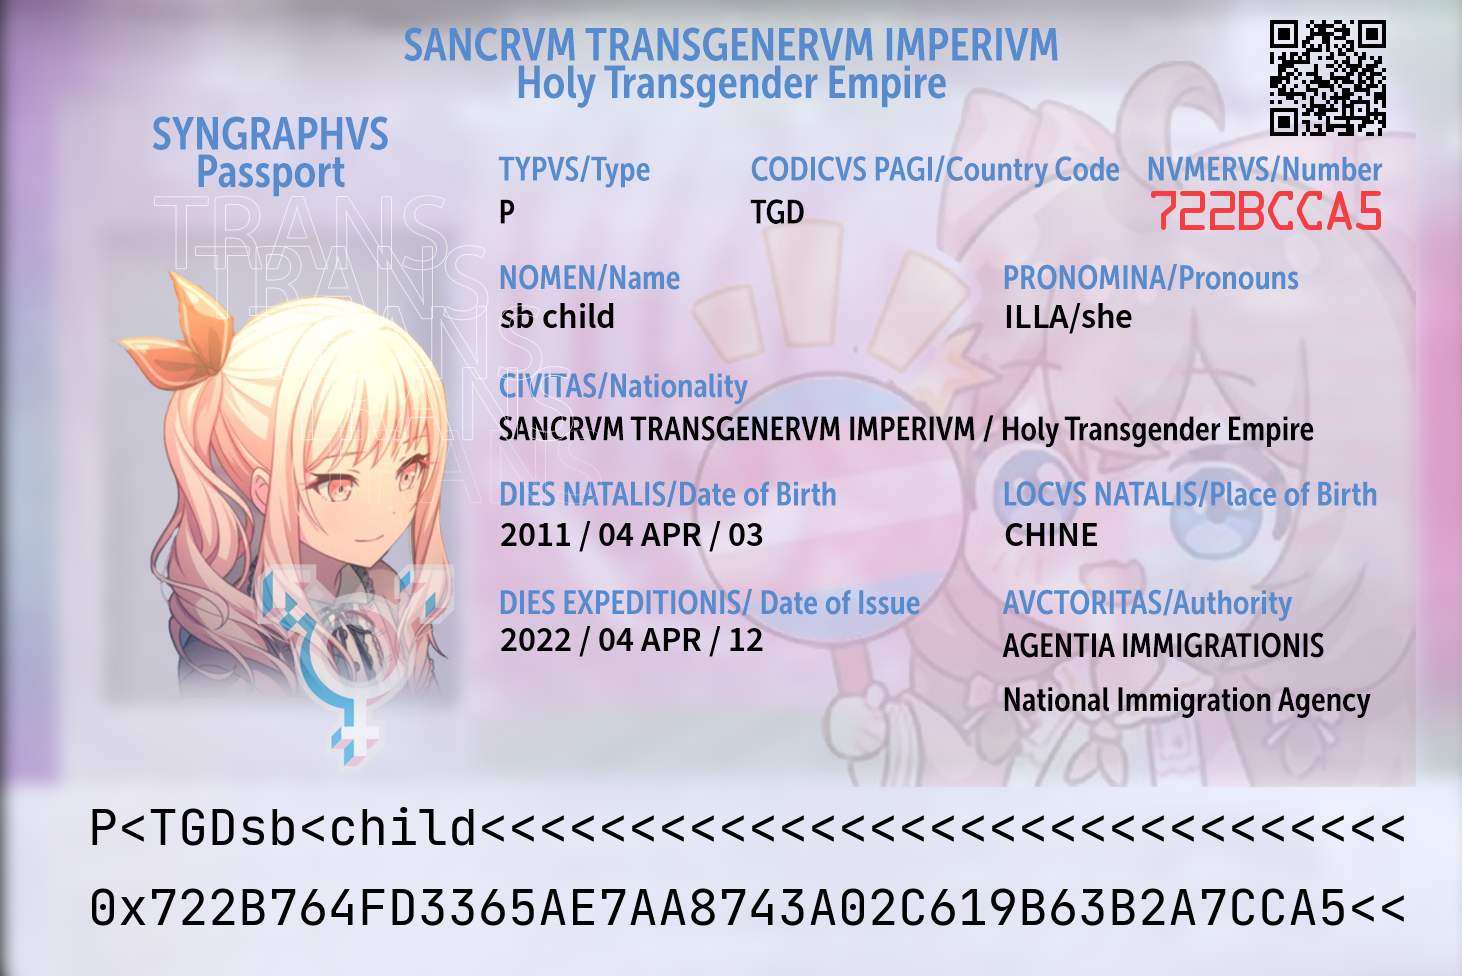
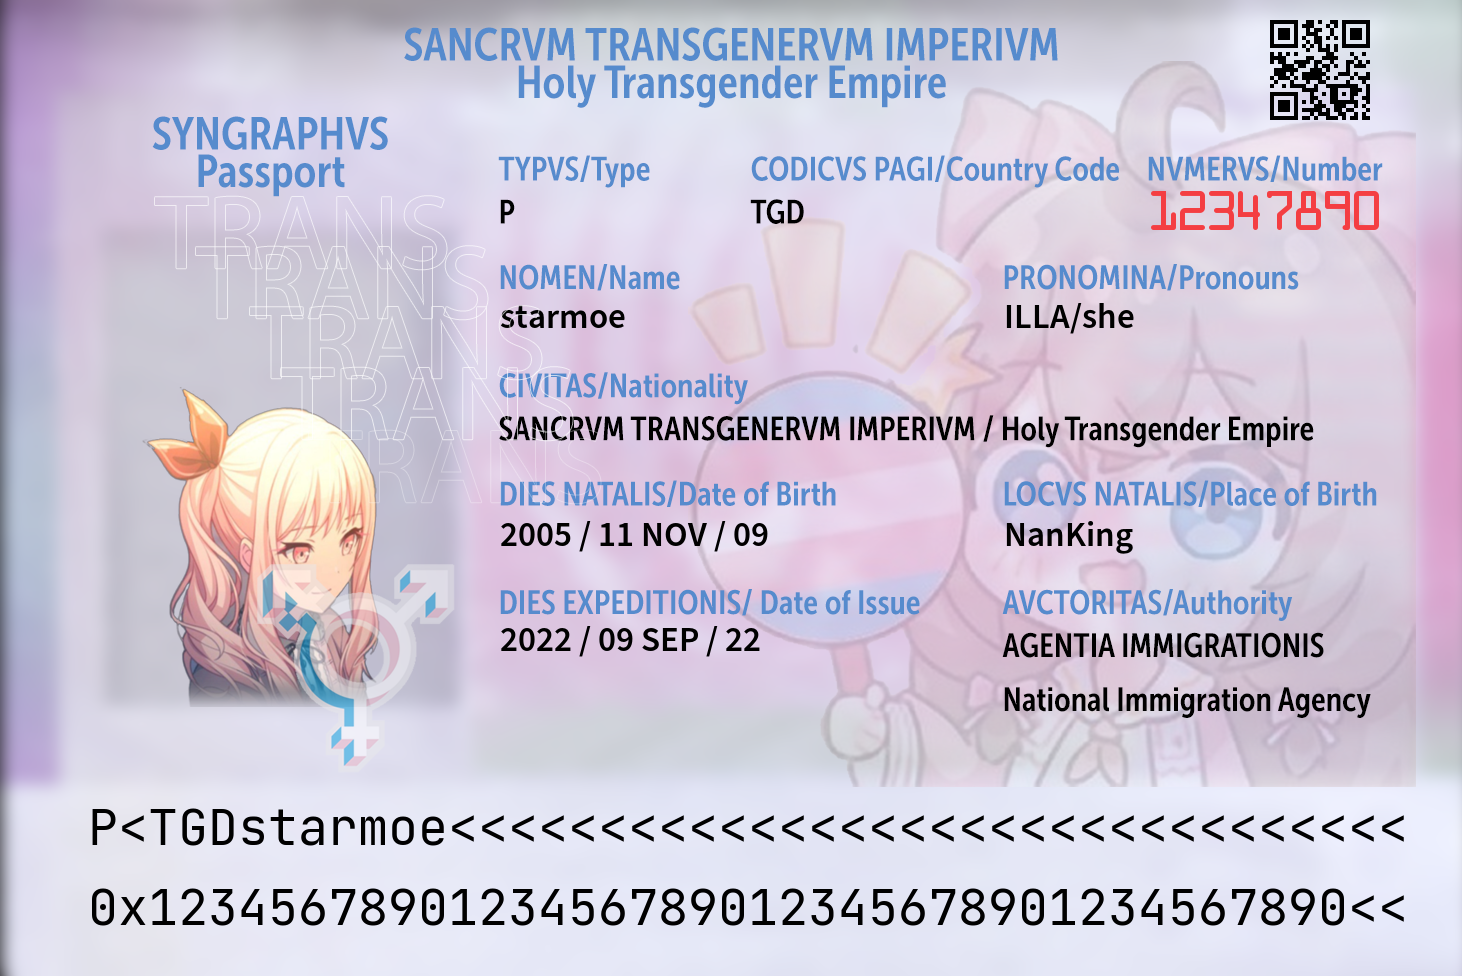
new pull request (#1)
* edited main.py

* Add files via upload

* Update README.md

* Update README.md

* Update main.py

* lint

* lint

diff --git a/main.py b/main.py
@@ -22,11 +22,16 @@ def main():
         pron = "ILLE/He"
     else:
         pron = "ILLVD/They"
-    date_born_input = input("您的出生日期是?(格式: 2022.1.1) ")
-    date_born_parse = datetime.datetime.strptime(date_born_input, "%Y.%m.%d")
-    date_born = date_born_parse.strftime("%Y / %m %b / %d").upper()
+    try:
+        date_born_input = input("您的出生日期是?(格式: 2022.1.1) ")
+        date_born_parse = datetime.datetime.strptime(
+            date_born_input, "%Y.%m.%d")
+        date_born = date_born_parse.strftime("%Y / %m %b / %d").upper()
+    except:
+        print("您输入的日期格式不正确。")
+        return
     place = input("您在何处出生? ")
-    
+
     id_1 = "P<TGD" + name.replace(" ", "<")
     id_1 += "<" * (44 - len(id_1))
     id_2 = eth_addr + "<" * 2
@@ -38,7 +43,7 @@ def main():
                            back_color="transparent")
     qr.make(fit=True)
     date_now = datetime.datetime.now().strftime("%Y / %m %b / %d").upper()
-    
+
     f_number = ImageFont.truetype("data-latin.ttf", size=60)
     f_text = ImageFont.truetype("SourceSansPro-Semibold.otf", size=35)
     f_id = ImageFont.truetype(
@@ -61,9 +66,10 @@ def main():
              font=f_id, fill=(0, 0, 0))  # 签发日期
     imd.text((88, 874), id_2,
              font=f_id, fill=(0, 0, 0))  # 签发日期
+    head = head.resize((356, 486))
 
     im.paste(qr_img, (1270, 20), mask=qr_img)
-    im.alpha_composite(head)
+    im.alpha_composite(head, (105, 221))
     im.alpha_composite(mask)
 
     im.save("out.png")

diff --git a/README.md b/README.md
@@ -2,13 +2,20 @@
 
 ![img](example.png)
 
+## 准备您的头像
+
+请提前将自己的头像剪切为`4:5`格式，如需上方留有空白请提前预留。
+
+![image](https://user-images.githubusercontent.com/96931510/191689366-ff74e9d0-d097-4eac-a535-7877eb1f93dd.png)
 
 ## 安装依赖
+
 ```bash
 pip3 install pillow qrcode
 ```
 
 ## 生成属于您的护照
+
 ```bash
 python3 main.py
 ```
@@ -16,12 +23,13 @@ python3 main.py
 您的护照将会保存在`out.png`中
 
 ## todo
+
 + ~~自定义头像~~ 您甚至可以直接更改`head.png`
 
 ## license
+
 `main.py` 使用 MIT 协议
 
 `*.ttf`, `*.otf` 归原作者管
 
 `background.png`, `head.png`, `mask.png`, `EXAMPLE_STI.krz` 归原作者管
-
